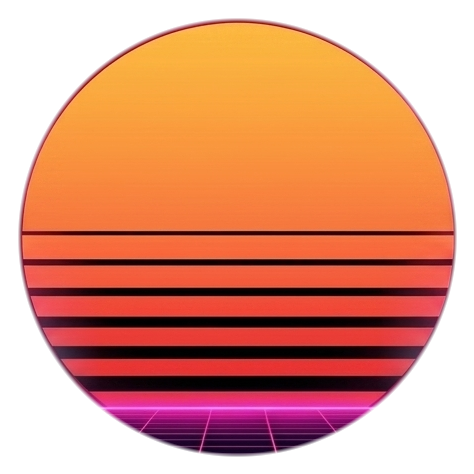
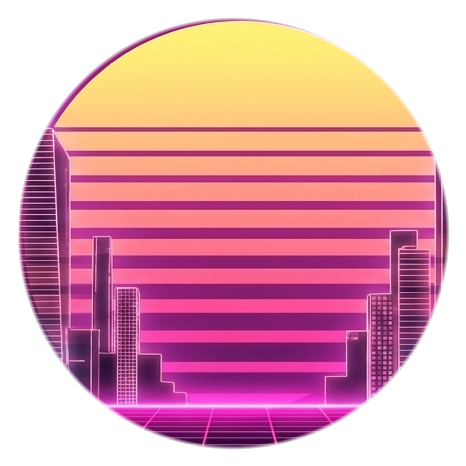
Match landscape buildings to portrait (prominent soft pink)

diff --git a/index.html b/index.html
@@ -5642,7 +5642,7 @@ updateMenuCar();                                             // reflect the save
   // sun geometry in each source image: cx = fraction of image WIDTH; cy & d = fraction of image HEIGHT
   const SUN = {
     portrait:  { nw: 768,  nh: 1376, cx: 0.501, cy: 0.320, d: 0.305 },
-    landscape: { nw: 1376, nh: 768,  cx: 0.500, cy: 0.515, d: 0.561 }
+    landscape: { nw: 1376, nh: 768,  cx: 0.495, cy: 0.512, d: 0.552 }
   };
   let cx = 0, cy = 0, R = 0, box = 0, dpr = 1;            // css px geometry (canvas-local)
   let smooth = null;                                      // shared smoothed spectrum (fast attack / slow decay)